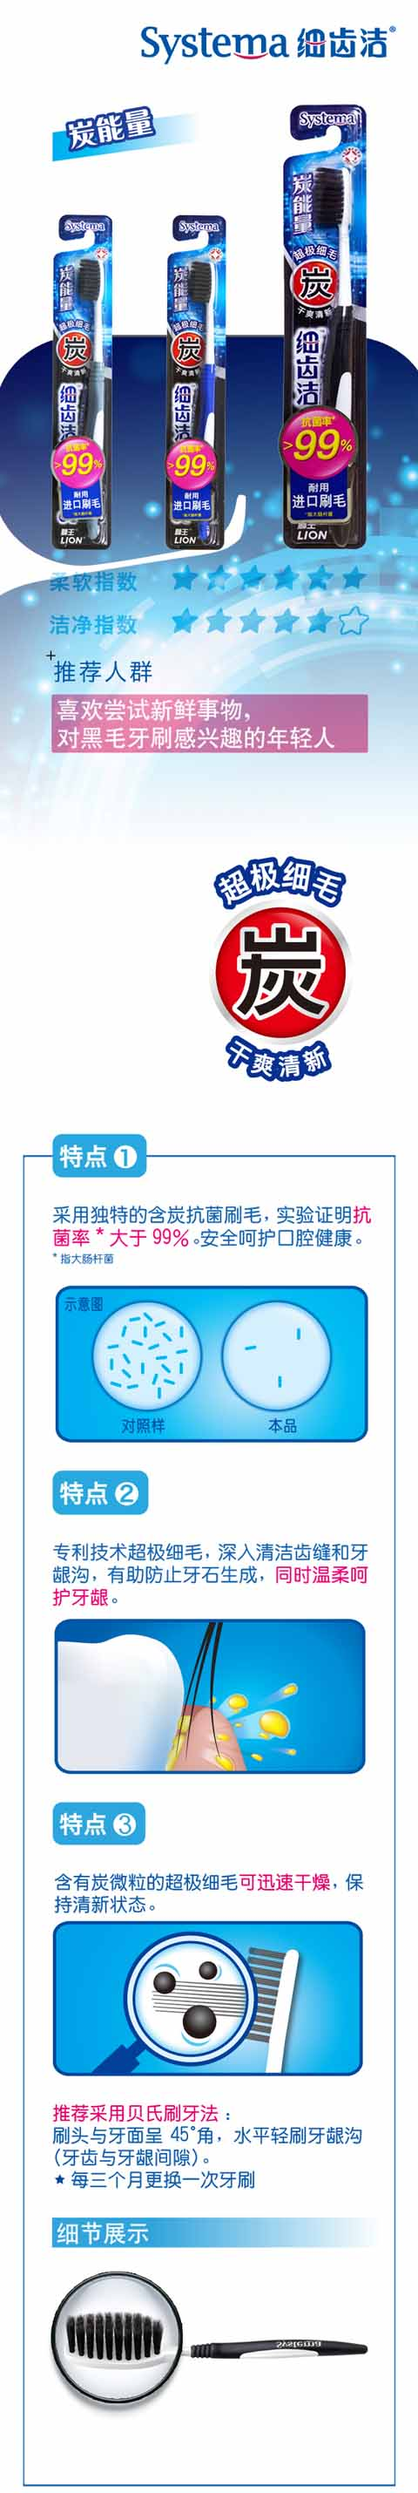
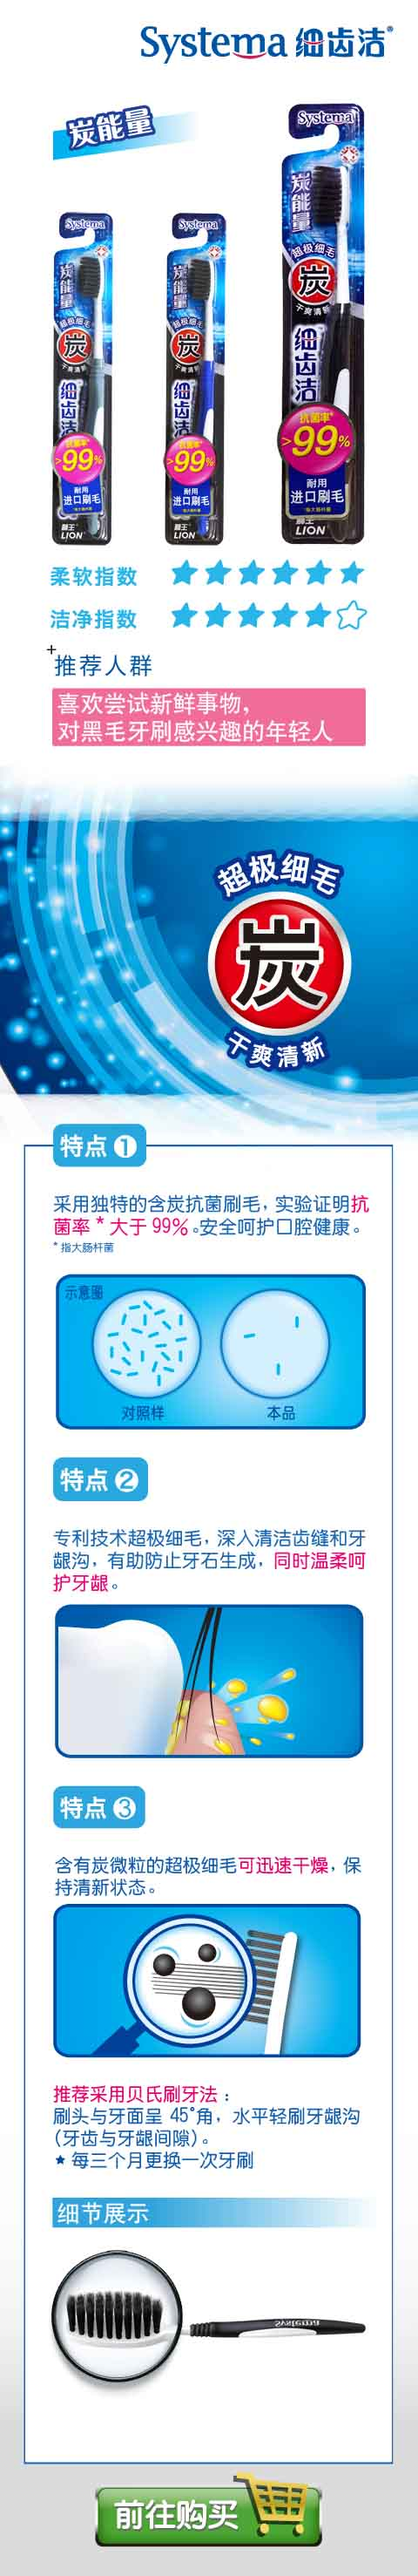
扫一扫买牙刷，图片的修改，牙齿测试

diff --git a/src/main/webapp/resources/site/buyGuide.html b/src/main/webapp/resources/site/buyGuide.html
@@ -1,0 +1,131 @@
+<!DOCTYPE html PUBLIC "-//W3C//DTD XHTML 1.0 Transitional//EN" "http://www.w3.org/TR/xhtml1/DTD/xhtml1-transitional.dtd">
+<html xmlns="http://www.w3.org/1999/xhtml">
+<head> 
+<meta http-equiv="Content-Type" content="text/html; charset=UTF-8"> 
+<title>扫一扫,买牙刷<</title> 
+<meta name="viewport" content="width=device-width,height=device-height,inital-scale=1.0,maximum-scale=1.0,user-scalable=no;">
+<meta name="apple-mobile-web-app-capable" content="yes">
+<meta name="apple-mobile-web-app-status-bar-style" content="black">
+<meta name="format-detection" content="telephone=no">
+<meta charset="utf-8">
+
+<link href="css/detail.css?ver=0003" rel="stylesheet" type="text/css" />
+<link rel="stylesheet" href="css/plugmenu.css">
+<style>
+ .themeStyle{background:#3B6FFF}  
+</style>   
+
+</head> 
+
+<body id="news2">
+<div id="mcover" onclick="document.getElementById('mcover').style.display='';"><img src="img/guide.png"></div>
+<div id="ui-header">
+<div class="fixed">
+<a class="ui-title" id="popmenu">细齿洁导航</a>
+<a class="ui-btn-left_pre" href="javascript:history.back(-1)"></a>
+<a class="ui-btn-right_home" href="index.html"></a>
+</div>
+</div>
+<div id="overlay"></div>
+<div id="win">
+<ul class="dropdown"> 
+<li><a href="brand1.html"><span>了解细齿洁</span></a></li>
+<li><a href="brand2.html"><span>产品家族</span></a></li>
+<li><a href="brand3.html"><span>牙龈护理</span></a></li>
+<li><a href="brand4.html"><span>活动试用</span></a></li>
+<li><a href="brand5.html"><span>促销优惠</span></a></li>
+<li><a href="brand6.html"><span>细致微关怀</span></a></li>
+<div class="clr"></div>
+</ul>
+</div>
+<div class="Listpage">
+<div class="top46"></div>
+<div class="page-bizinfo">
+<div class="header" style="position: relative;text-align:center;">
+<h1 id="activity-name">小细教你扫一扫买牙刷</h1>
+</div>
+<div class="text" id="content">
+<div class="about_box">
+<div class="block1">
+    <div style="margin:20px 0px 10px 0px">Step1:进入微信点击发现进入扫一扫界面</div>
+	<img src="img/guide/scan_1.jpg" class="showpic"/>
+	<p></p>
+	<div style="margin:20px 0px 10px 0px">Step2:将条码放入框内，进行自动扫描</div>
+	<img src="img/guide/scan_2.jpg" class="showpic"/>
+	<div style="margin:20px 0px 10px 0px">Step3:点击相关商场，即可进入指定购买页面</div>
+	<img src="img/guide/scan_3.jpg" class="showpic"/>
+	<div style="margin:20px 0px 10px 0px">Step4:进入指定商品购买页，完成购买</div>
+	<img src="img/guide/scan_4.jpg" class="showpic"/>
+</div>
+</div>
+
+<p>
+</div>	
+
+<div id="mess_share">
+<div id="share_1">
+<button class="button2" onclick="document.getElementById('mcover').style.display='block';"><img src="img/icon_msg.png">&nbsp;发送给朋友</button>
+</div>
+<div id="share_2">
+<button class="button2" onclick="document.getElementById('mcover').style.display='block';"><img src="img/icon_timeline.png">&nbsp;分享到朋友圈</button>
+</div>
+<div class="clr"></div>
+</div>
+			
+<div class="page-content" >
+</div>
+</div>      
+<a class="footer2" href="#top"  target="_self"><span class="top">返回顶部</span></a>
+<script>
+function dourl(url){
+location.href= url;
+}
+</script>
+<div class="plug-div">
+	<div class="plug-phone">
+		<div class="plug-menu themeStyle"><span class="close"></span></div>              
+		<div class="themeStyle plug-btn plug-btn1 close"><a  onclick="document.getElementById('mcover').style.display='block';"><span style="background-image: url(img/plugmenu3.png);" ></span></a></div>              
+		<div class="themeStyle plug-btn plug-btn2 close"><a  onclick="document.getElementById('mcover').style.display='block';"><span style="background-image: url(img/plugmenu4.png);" ></span></a></div>						
+		<div class="plug-btn plug-btn5 close"></div>
+	</div>
+</div>
+</div>
+ <div class="copyright">Copyright © 2013 Lion Corportion. All rights reserved.</div> 
+ <div style="display:none"><script type="text/javascript" src="http://tajs.qq.com/stats?sId=27038520" charset="UTF-8"></script></div>
+ <!--QA for  s-66915.gotocdn.com 
+ <div style="display:none"><script type="text/javascript" src="http://tajs.qq.com/stats?sId=27025512" charset="UTF-8"></script></div>
+ -->
+</div>
+</body>
+</html>
+
+<script src="js/zepto.min.js" type="text/javascript"></script>
+<script src="js/plugmenu.js" type="text/javascript"></script>
+<script src="js/audio.min.js" type="text/javascript"></script>
+<script src="js/play.js" type="text/javascript"></script>
+<script src="js/plugback.js" type="text/javascript"></script>
+<script>
+      audiojs.events.ready(function() {
+        audiojs.createAll();
+      });
+ </script>
+ 
+<script>
+window.onload = function ()
+{
+var oWin = document.getElementById("win");
+var oLay = document.getElementById("overlay");	
+var oBtn = document.getElementById("popmenu");
+var oClose = document.getElementById("close");
+oBtn.onclick = function ()
+{
+oLay.style.display = "block";
+oWin.style.display = "block"	
+};
+oLay.onclick = function ()
+{
+oLay.style.display = "none";
+oWin.style.display = "none"	
+}
+};
+</script>

diff --git a/src/main/webapp/resources/site/css/testStyles.css b/src/main/webapp/resources/site/css/testStyles.css
@@ -38,8 +38,8 @@
 }
 
 .main-quiz-holder  .slide-container {
-     width: 92%;
-	 padding: 75px 10px 50pt 20px;
+     width: 99%;
+	 padding: 20px 10px 50pt 0px;
 }
 
 
@@ -67,13 +67,13 @@
 	top: 10px;
 	border:1px solid #F6F6F6;
 	padding: 5px;
-	background: #F0F0F0;
+	background: #F0F0F0;;
 	text-shadow: 0 1px 0 rgba(255, 255, 255, 0.3);
-  -webkit-box-shadow: inset 0 0 0 1px rgba(255, 255, 255, 0.2), inset 0 0 6px 0 rgba(255, 255, 255, 0.3), 0 1px 2px rgba(0, 0, 0, 0.4);
-  -moz-box-shadow: inset 0 0 0 1px rgba(255, 255, 255, 0.2), inset 0 0 6px 0 rgba(255, 255, 255, 0.3), 0 1px 2px rgba(0, 0, 0, 0.4);
-  box-shadow: inset 0 0 0 1px rgba(255, 255, 255, 0.2), inset 0 0 6px 0 rgba(255, 255, 255, 0.3), 0 1px 2px rgba(0, 0, 0, 0.4);
-  border-radius: 3px;
-  color: #949494;
+	  -webkit-box-shadow: inset 0 0 0 1px rgba(255, 255, 255, 0.2), inset 0 0 6px 0 rgba(255, 255, 255, 0.3), 0 1px 2px rgba(0, 0, 0, 0.4);
+	  -moz-box-shadow: inset 0 0 0 1px rgba(255, 255, 255, 0.2), inset 0 0 6px 0 rgba(255, 255, 255, 0.3), 0 1px 2px rgba(0, 0, 0, 0.4);
+	  box-shadow: inset 0 0 0 1px rgba(255, 255, 255, 0.2), inset 0 0 6px 0 rgba(255, 255, 255, 0.3), 0 1px 2px rgba(0, 0, 0, 0.4);
+	  border-radius: 3px;
+	  color: #949494;
 }
 
 .main-quiz-holder  .slide-container ul.answers {
@@ -127,11 +127,11 @@
 }
 
 .main-quiz-holder .slide-container .next  {
-  background: #77d125;
-  box-shadow: 0 1px 5px #3caa00, inset 0 10px 20px #c9ffb6;
-   -o-box-shadow: 0 1px 5px #3caa00, inset 0 10px 20px #c9ffb6;
-   -webkit-box-shadow: 0 1px 5px #3caa00, inset 0 10px 20px #c9ffb6;
-   -moz-box-shadow: 0 1px 5px #3caa00, inset 0 10px 20px #c9ffb6;
+  background: #0066FF;
+  box-shadow: 0 1px 5px #3caa00, inset 0 10px 20px #00FFCC;
+   -o-box-shadow: 0 1px 5px #3caa00, inset 0 10px 20px #00FFCC;
+   -webkit-box-shadow: 0 1px 5px #3caa00, inset 0 10px 20px #00FFCC;
+   -moz-box-shadow: 0 1px 5px #3caa00, inset 0 10px 20px #00FFCC;
 }
 
 
@@ -216,7 +216,7 @@
 
 .main-quiz-holder .nav-start {
 	display: block;
-	margin: 0px;
+	margin-top: 20px;
 }
 
 .main-quiz-holder .nav-container {
@@ -366,3 +366,59 @@ display: block;
 margin-bottom: 6px;
 padding: 0 2px 0 12px;
 }
+.submit {
+	margin: 50px auto auto auto;
+	width:30%;
+	background-color:#0066FF;
+	padding:10px 20px;
+	font-size:16px;
+	text-decoration:none;
+	border:1px solid #00bfff;
+	background-image: linear-gradient(bottom,  #0066FF 0%, #0033FF 100%);
+	background-image: -o-linear-gradient(bottom, #0066FF 0%, #0033FF 100%);
+	background-image: -moz-linear-gradient(bottom, #0066FF 0%, #0033FF 100%);
+	background-image: -webkit-linear-gradient(bottom, #0066FF 0%, #0033FF 100%);
+	background-image: -ms-linear-gradient(bottom, #0066FF 0%, #0033FF 100%);
+	background-image: -webkit-gradient(
+	linear,
+	left bottom,
+	left top,
+	color-stop(0, #0066FF),
+	color-stop(1, #0033FF)
+	);
+	-webkit-box-shadow: 0 1px 0 #0066FF inset, 0 1px 2px rgba(0, 0, 0, 0.5);
+	-moz-box-shadow: 0 1px 0 #0066FF inset, 0 1px 2px rgba(0, 0, 0, 0.5);
+	box-shadow: 0 1px 0 #0066FF inset, 0 1px 2px rgba(0, 0, 0, 0.5);
+	-webkit-border-radius: 5px;
+	-moz-border-radius: 5px;
+	-o-border-radius: 5px;
+	border-radius: 5px;
+	color: #ffffff;
+	display:block;
+	text-align:center;
+	text-shadow:0 1px rgba(0, 0, 0, 0.2);
+	font-family: Microsoft YaHei,Helvitica,Verdana,Tohoma,Arial,san-serif;
+}
+.submit:active {
+	padding-bottom:9px;
+	padding-left:20px;
+	padding-right:20px;
+	padding-top:11px;
+	top:0px;
+	background-image: linear-gradient(bottom, #0033FF 0%, #0066FF 100%);
+	background-image: -o-linear-gradient(bottom,  #0033FF 0%, #0066FF 100%);
+	background-image: -moz-linear-gradient(bottom,  #0033FF 0%, #0066FF 100%);
+	background-image: -webkit-linear-gradient(bottom,  #0033FF 0%, #0066FF 100%);
+	background-image: -ms-linear-gradient(bottom,  #0033FF 0%, #0066FF 100%);
+	background-image: -webkit-gradient(
+	linear,
+	left bottom,
+	left top,
+	color-stop(0, #0033FF),
+	color-stop(1, #0066FF)
+	);
+	-webkit-box-shadow: 0 1px 0 #0033FF inset, 0 1px 2px rgba(0, 0, 0, 0.5);
+	-moz-box-shadow: 0 1px 0 #0033FF inset, 0 1px 2px rgba(0, 0, 0, 0.5);
+	box-shadow: 0 1px 0 #0033FF inset, 0 1px 2px rgba(0, 0, 0, 0.5);
+}
+.submit img{ width:15px; margin:-4px 10px 0 0;}

diff --git a/src/main/webapp/resources/site/js/jquery.jquizzy-min2.js b/src/main/webapp/resources/site/js/jquery.jquizzy-min2.js
@@ -4,7 +4,7 @@
         var defaults = {
             questions: null,
             twitterStatus: 'I scored {score}% on this awesome! Check it out!',
-            startText: '点击开始测试牙龈',
+            startText: '开始',
             endText: '牙龈健康报告',
             splashImage: 'img/start.png',
             twitterImage: 'img/share.png',
@@ -26,7 +26,7 @@
         }
         var superContainer = $(this),
         answers = [],
-        introFob = '<div class="intro-container slide-container"><div class="question-number">' + config.startText + '</div><a class="nav-start" href="#"><img src="' + config.splashImage + '" /></a></div>',
+        introFob = '<div class="intro-container slide-container"><a class="nav-start" href="#"><img src="' + config.splashImage + '" /></a><div ><a class="submit" href="javascript:void(0)" style="color: #FFFFFF;">开&nbsp;&nbsp;&nbsp;&nbsp;&nbsp;&nbsp;始</a></div></div>',
         exitFob = '<div class="results-container slide-container"><div class="question-number">' + config.endText + '</div><div class="result-keeper"></div></div><div class="notice">请选择一个选项！</div><div class="progress-keeper" ><div class="progress"></div></div>',
         contentFob = '';
         superContainer.addClass('main-quiz-holder');
@@ -95,6 +95,14 @@
             }
         });
         superContainer.find('.nav-start').click(function() {
+            $(this).parents('.slide-container').fadeOut(500,
+            function() {
+                $(this).next().fadeIn(500);
+                progressKeeper.fadeIn(500)
+            });
+            return false
+        });
+		superContainer.find('.submit').click(function() {
             $(this).parents('.slide-container').fadeOut(500,
             function() {
                 $(this).next().fadeIn(500);

diff --git a/src/main/webapp/resources/site/teethTest.html b/src/main/webapp/resources/site/teethTest.html
@@ -9,7 +9,7 @@
 	<meta name="apple-mobile-web-app-status-bar-style" content="black-translucent">
 	<meta name="format-detection" content="telephone=no">
 	<meta charset="utf-8">
-	<link rel='stylesheet' href='css/testStyles.css?ver=0003' />
+	<link rel='stylesheet' href='css/testStyles.css?ver=0004' />
 </head>
 <body>
   <div id='quiz-container'></div>
@@ -22,7 +22,7 @@
 
 <script src='js/init.js?ver=0003'></script>
 <script src='js/jquery-2.0.3.min.js?ver=0003'></script>
-<script src='js/jquery.jquizzy-min2.js?ver=0003'></script>
+<script src='js/jquery.jquizzy-min2.js?ver=0004'></script>
 <script type="text/javascript">
  $('#quiz-container').jquizzy({
 			questions: init.questions, 

diff --git a/src/main/webapp/resources/site/brand6.html b/src/main/webapp/resources/site/brand6.html
@@ -23,7 +23,7 @@
 <ul  class="todayList">
 
 <li class="only3">
-<a href="needtodo.html">
+<a href="buyGuide.html">
 <h2>扫一扫，买牙刷</h2>
 <span class="icon">&nbsp;</span>
 </a>
